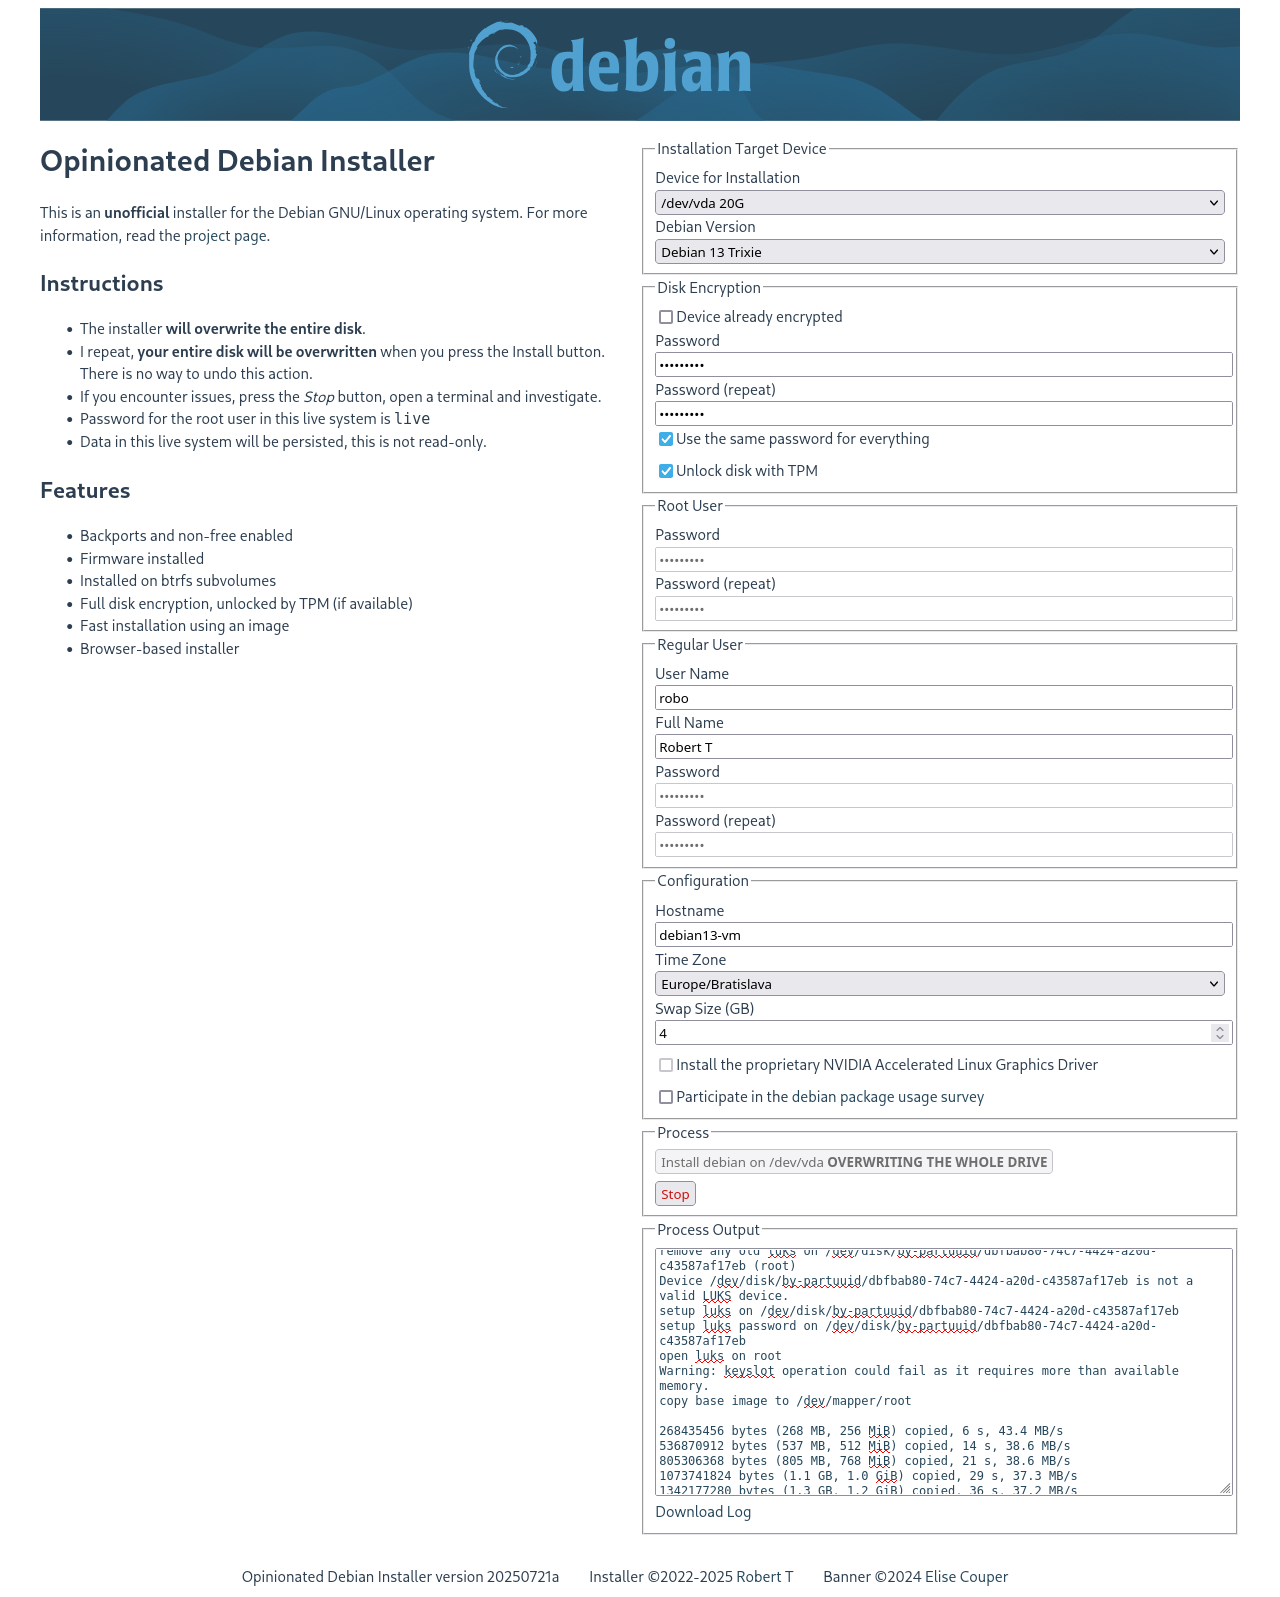
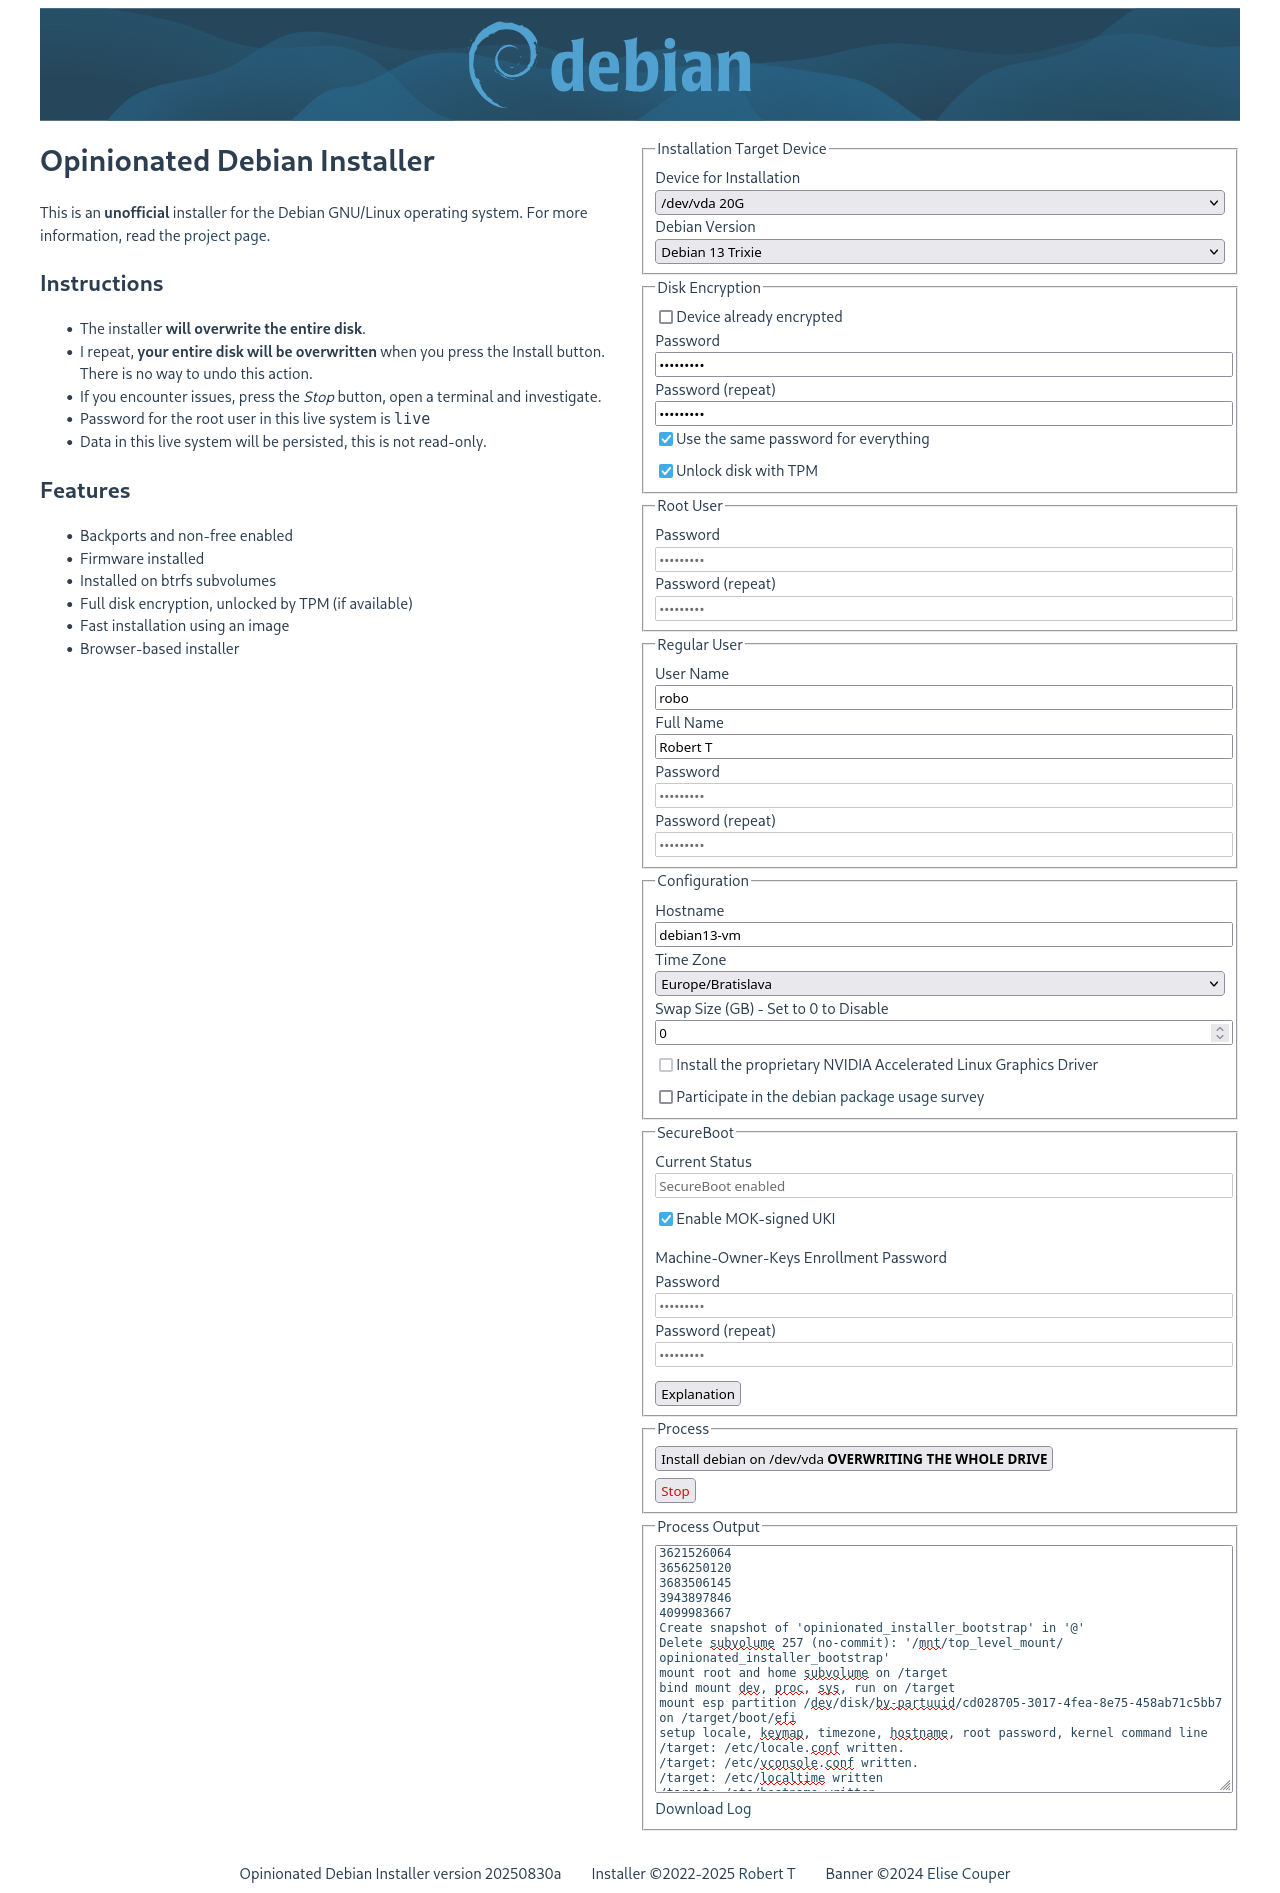
unified kernel image

diff --git a/frontend/src/App.vue b/frontend/src/App.vue
@@ -389,8 +389,15 @@ export default {
   </footer>
 
   <dialog ref="completed_dialog">
-    <p>
-      Debian successfully installed. You can now turn off your computer, remove the installation media and start it again.
+    <p v-if="installer.ENABLE_MOK_SIGNED_UKI">
+      Debian successfully installed.
+      <b>Do not remove the installation media (e.g. USB drive) yet.</b>
+      Reboot your PC now, enroll the Machine Owner Key.
+      Only after that, turn off your computer, remove the installation media and start it again.
+    </p>
+    <p v-else>
+      Debian successfully installed.
+      You can now turn off your computer, remove the installation media and start it again.
     </p>
     <button class="right-align mt-2" @click="$refs.completed_dialog.close()">Close</button>
   </dialog>

diff --git a/README.md b/README.md
@@ -52,7 +52,7 @@ Can I have my passwordless boot back?**
 You need to re-enroll the TPM to decrypt your drive.
 Find the path to the underlying device (with `lsblk` or similar) and use the following command (replacing /dev/vda2 with your device):
 
-    sudo systemd-cryptenroll --tpm2-pcrs=platform-config+secure-boot-policy+shim-policy \
+    sudo systemd-cryptenroll --tpm2-pcrs=secure-boot-policy+shim-policy \
         --tpm2-device=auto --tpm2-pcrlock= --wipe-slot=tpm2 /dev/vda2
 
 **The installer is very slow to start up or does not start at all**
@@ -91,7 +91,7 @@ See the screenshots of the process below:
 We also recommend to re-enroll the TPM device to decrypt your drive with PCRs 7 (secure-boot-policy) and 14 (shim-policy) after the installation.
 Identify your underlying boot device (with `lsblk`) and use the following command (replacing /dev/vda2 with your device):
 
-    sudo systemd-cryptenroll --tpm2-pcrs=platform-config+secure-boot-policy+shim-policy \
+    sudo systemd-cryptenroll --tpm2-pcrs=secure-boot-policy+shim-policy \
         --tpm2-device=auto --tpm2-pcrlock= --wipe-slot=tpm2 /dev/vda2
 
 This will prevent auto-decryption of your drive if SecureBoot is disabled or keys are tampered with.
